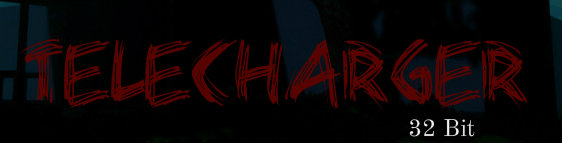
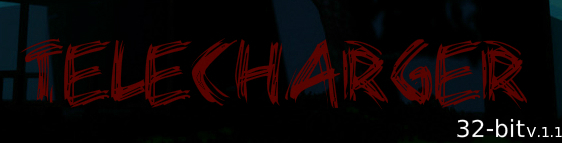
nvjeuannonce

Changed region(s): [[0.726, 0.8112, 1.0, 0.979]]

diff --git a/the-house/house.html b/the-house/house.html
@@ -29,7 +29,7 @@
 			</li>
         	<li><a>Langues <ul>
 				<li><a href="../index.html">Français</a></li>
-             	<li><a>English</a></li>
+             	<li><a href="../english.html">English</a></li>
 		</ul>
 	</div>
             <div style="width: 95%">
@@ -40,8 +40,8 @@
 
                 
                 
-<a href="http://www.mediafire.com/file/x828iqpwj8y236o/LA+MAISON%2832-bit%29.zip" target="_blank"><img class="bouton1" style="margin-left: 3%"  src="image/telecharger%20la%20maison32.jpg"></a>
-<a href= "http://www.mediafire.com/file/9cy22x51i44b5r6/LA+MAISON%2864-bit%29.zip" target="_blank"><img class="bouton1" src="image/telecharger%20la%20maison64%20.jpg"></a>
+<a href="http://www.mediafire.com/file/66kxig71drwoi3o/LA+MAISON%2832-bit+V.1.1%29.zip" target="_blank"><img class="bouton1" style="margin-left: 3%"  src="image/telecharger%20la%20maison32.jpg"></a>
+<a href= "http://www.mediafire.com/file/ynd44mky62cvypx/LA+MAISON%2864-bit+V.1.1%29.zip" target="_blank"><img class="bouton1" src="image/telecharger%20la%20maison64%20.jpg"></a>
 
 
 

diff --git a/ENGLISH/the-house-ENG/house.html b/ENGLISH/the-house-ENG/house.html
@@ -40,7 +40,7 @@
 
                 
                 
-<a href="http://www.mediafire.com/file/x828iqpwj8y236o/LA+MAISON%2832-bit%29.zip" target="_blank"><img class="bouton1" style="margin-left: 3%"  src="../../the-house/image/telecharger%20la%20maison32.jpg"></a>
+<a href=http://www.mediafire.com/file/66kxig71drwoi3o/LA+MAISON%2832-bit+V.1.1%29.zip target="_blank"><img class="bouton1" style="margin-left: 3%"  src="../../the-house/image/telecharger%20la%20maison32.jpg"></a>
 <a href="http://www.mediafire.com/file/9cy22x51i44b5r6/LA+MAISON%2864-bit%29.zip" target="_blank"><img class="bouton1" src="../../the-house/image/telecharger%20la%20maison64%20.jpg"></a>
 
 

diff --git a/english.html b/english.html
@@ -38,7 +38,7 @@
 <img class="baniere"src="photo/baniere.jpg">
         
     <a href="ENGLISH/the-house-ENG/house.html"><img src="photo/housedispo.jpg"></a>
-    <a href="ENGLISH/the-house-ENG/house.html"><img src="photo/housemiseajours.jpg"></a>
+    <a href="ENGLISH/the-house-ENG/house.html"><img src="photo/man.jpg"></a>
     <a href="ENGLISH/zack-ENG/zack.html"><img src="photo/zackdispo.jpg"></a>
     
     

diff --git a/index.html b/index.html
@@ -38,7 +38,7 @@
 <img class="baniere"src="photo/baniere.jpg">
         
     <a href="the-house/house.html"><img src="photo/housedispo.jpg"></a>
-    <a href="the-house/house.html"><img src="photo/housemiseajours.jpg"></a>
+    <a href="the-house/house.html"><img src="photo/man.jpg"></a>
     <a href="zack/zack.html"><img src="photo/zackdispo.jpg"></a>
     
     
